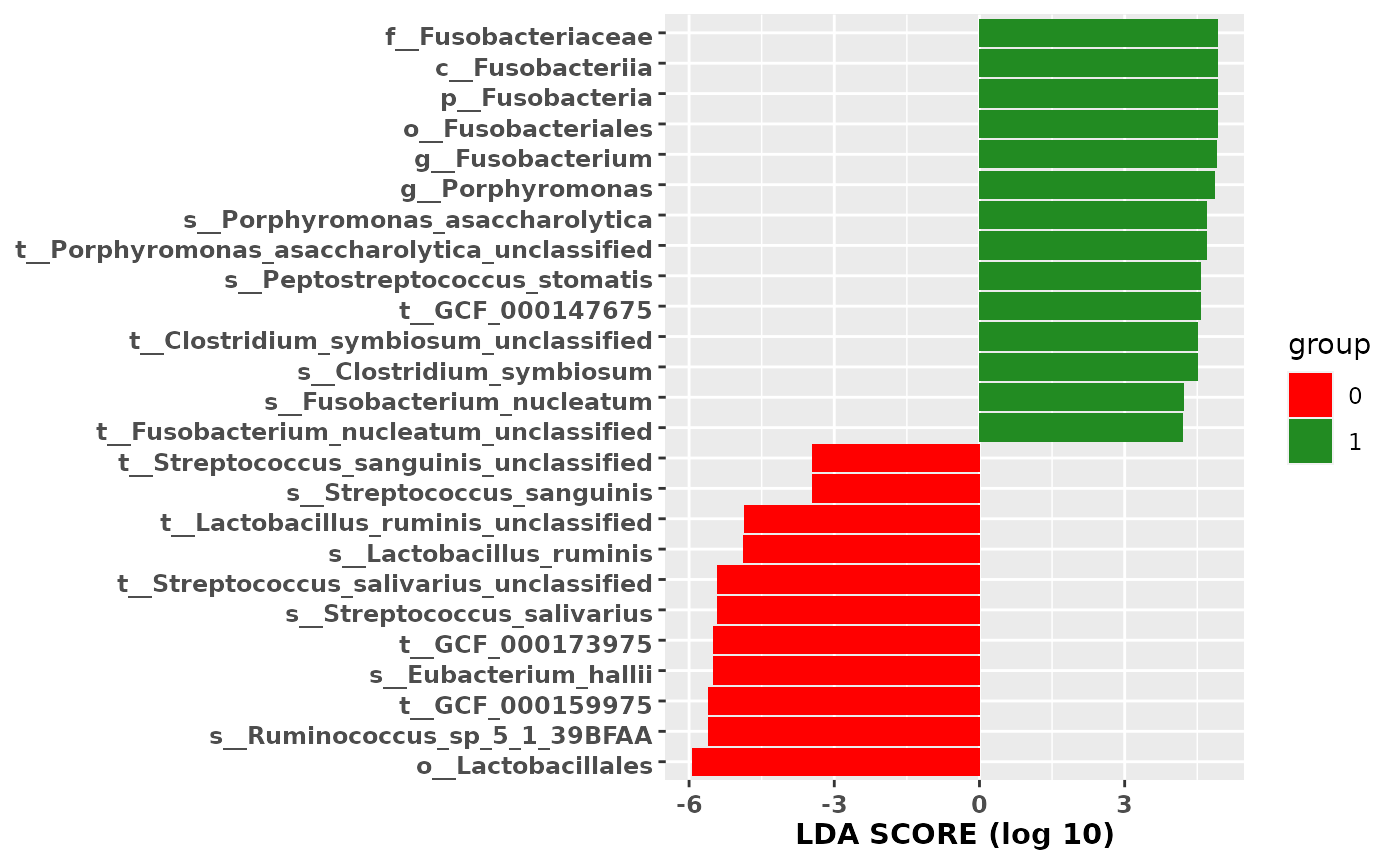
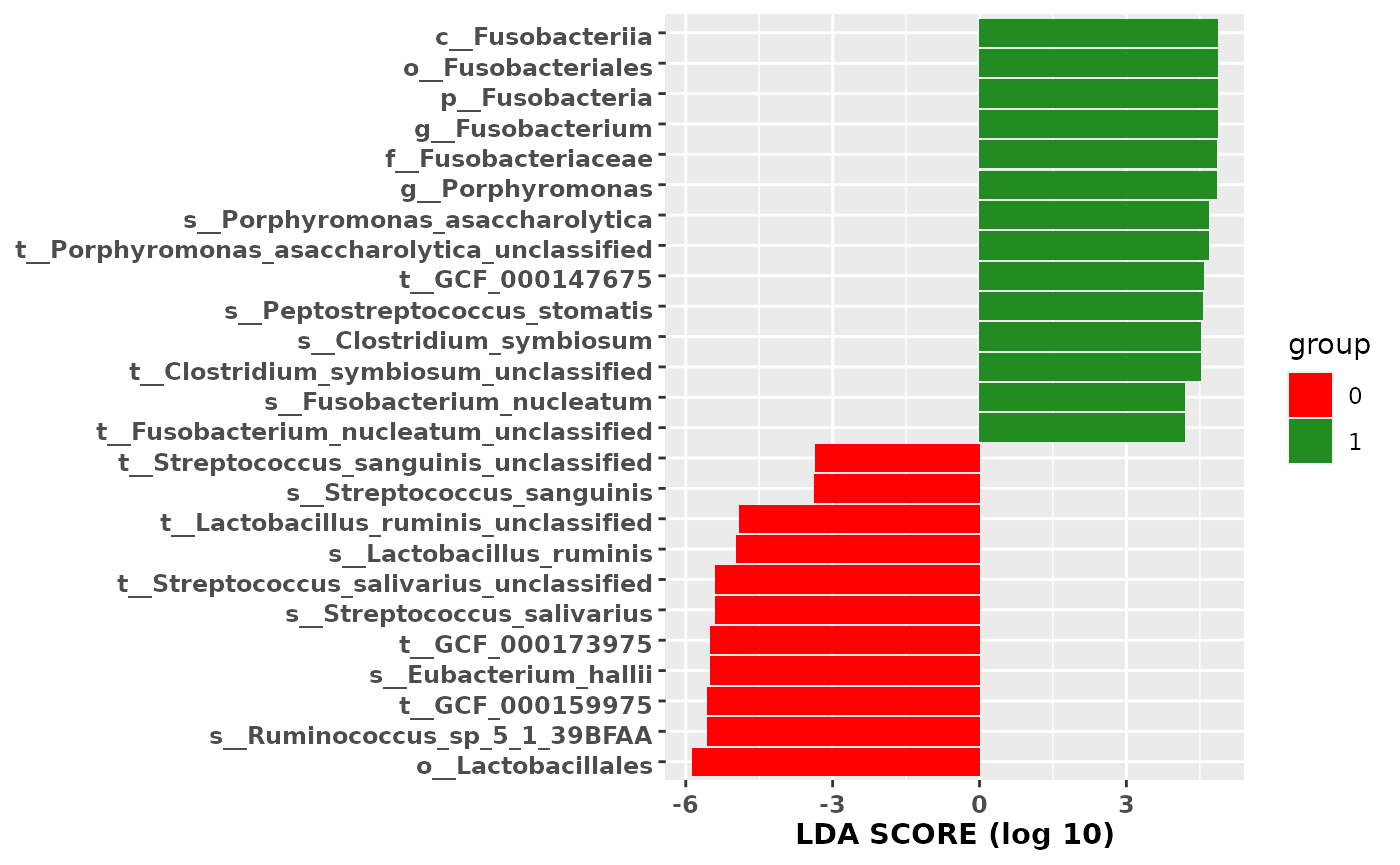
Deploying to gh-pages from  @ 701a626bed0c731363070b80f1c9fcb7b1f8383e 🚀

diff --git a/articles/lefser.html b/articles/lefser.html
@@ -131,12 +131,12 @@
 <span class="va">res</span> <span class="op">&lt;-</span> <span class="fu"><a href="../reference/lefser.html">lefser</a></span><span class="op">(</span><span class="va">zeller14</span>, groupCol <span class="op">=</span> <span class="st">"study_condition"</span>, blockCol <span class="op">=</span> <span class="st">"age_category"</span><span class="op">)</span>
 <span class="fu"><a href="https://rdrr.io/r/utils/head.html">head</a></span><span class="op">(</span><span class="va">res</span><span class="op">)</span></pre></div>
 <pre><code>##                           Names    scores
-## 1            o__Lactobacillales -5.938892
-## 2 s__Ruminococcus_sp_5_1_39BFAA -5.608836
-## 3              t__GCF_000159975 -5.608836
-## 4         s__Eubacterium_hallii -5.500512
-## 5              t__GCF_000173975 -5.500512
-## 6   s__Streptococcus_salivarius -5.417607</code></pre>
+## 1            o__Lactobacillales -5.871949
+## 2 s__Ruminococcus_sp_5_1_39BFAA -5.556156
+## 3              t__GCF_000159975 -5.556156
+## 4         s__Eubacterium_hallii -5.495581
+## 5              t__GCF_000173975 -5.495581
+## 6   s__Streptococcus_salivarius -5.392879</code></pre>
 </div>
 <div id="visualizing-results-with-lefserplot" class="section level1">
 <h1 class="hasAnchor">
